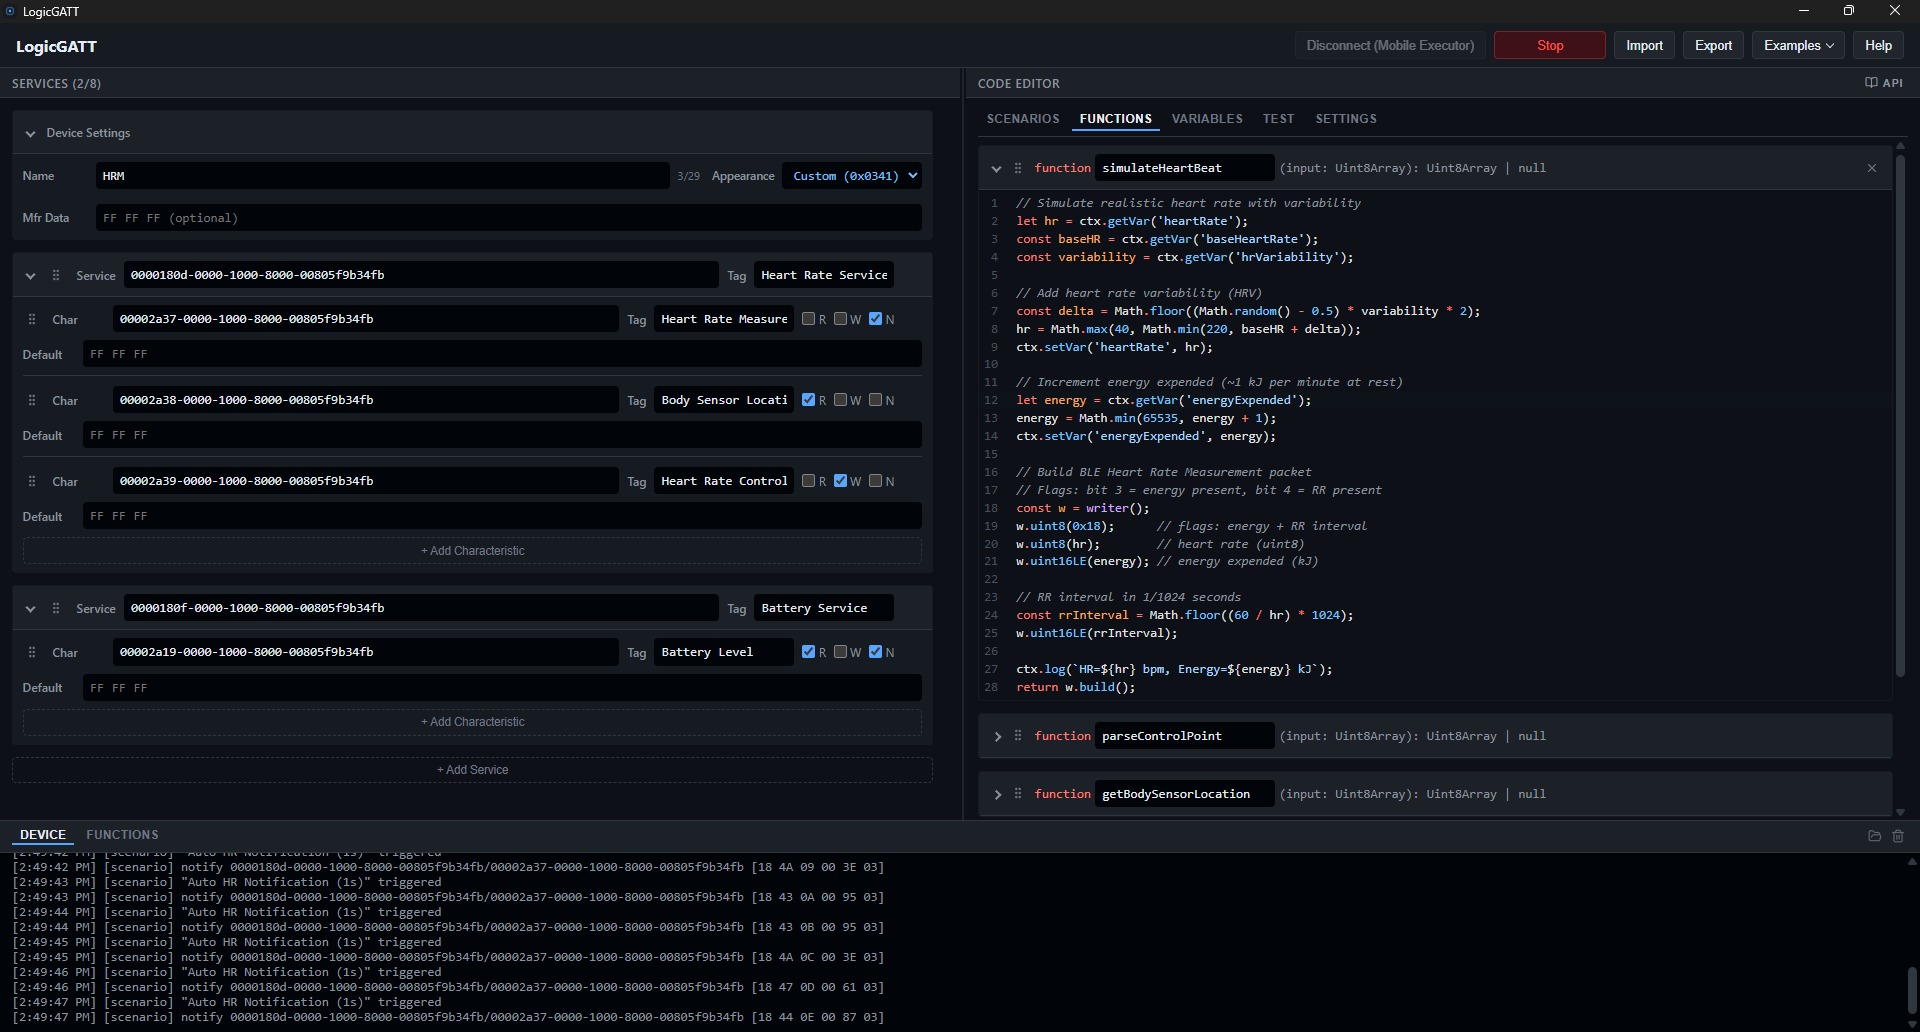
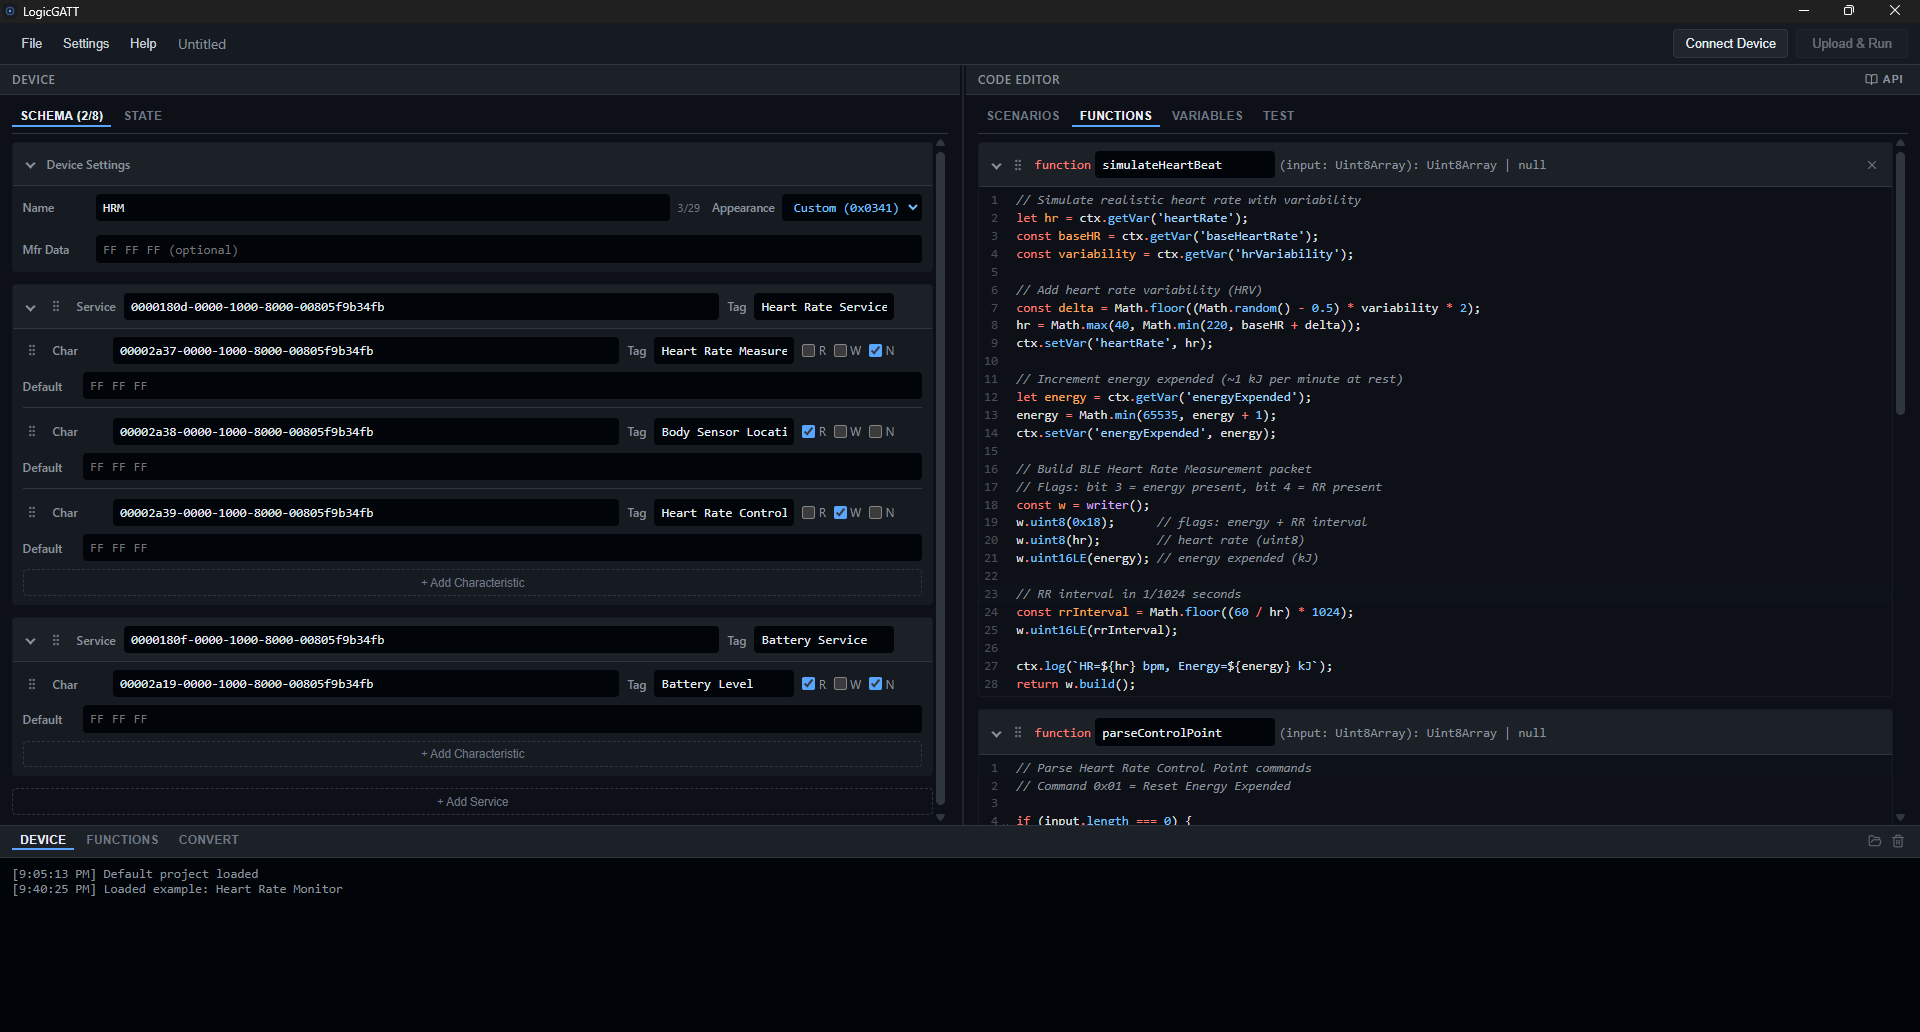
Correct the docs describing variables, resets and the current UI

diff --git a/logic-gatt-desktop-app/src/mainview/components/TopBar.tsx b/logic-gatt-desktop-app/src/mainview/components/TopBar.tsx
@@ -94,7 +94,8 @@ export function TopBar({ transport, project, files, logger, onUpload, examples =
                 <h3>Quick Start</h3>
                 <ol>
                   <li>
-                    <strong>Define Services</strong> : Add GATT services and characteristics in the left panel
+                    <strong>Define Services</strong> : Add GATT services and characteristics in{' '}
+                    <em>Device &rarr; Schema</em> on the left
                   </li>
                   <li>
                     <strong>Write Functions</strong> : Create reusable logic in the <em>Functions</em> tab
@@ -111,8 +112,14 @@ export function TopBar({ transport, project, files, logger, onUpload, examples =
               <section>
                 <h3>Panels</h3>
                 <dl>
-                  <dt>Services</dt>
+                  <dt>Device &rarr; Schema</dt>
                   <dd>Define BLE services and characteristics with UUIDs, properties (R/W/N), and default values</dd>
+
+                  <dt>Device &rarr; State</dt>
+                  <dd>
+                    The values the running session is working with. Edit one live, put it back with{' '}
+                    <em>Reset</em>, or promote it into the project with <em>Save as initial</em>
+                  </dd>
 
                   <dt>Scenarios</dt>
                   <dd>Event-driven pipelines: trigger on char writes/reads, timers, or startup, then execute steps</dd>
@@ -125,7 +132,8 @@ export function TopBar({ transport, project, files, logger, onUpload, examples =
 
                   <dt>Variables</dt>
                   <dd>
-                    Global state accessible via <code>ctx.getVar()</code> / <code>ctx.setVar()</code>
+                    Declare the variables a project has, and the value each one starts from. Reachable in
+                    functions via <code>ctx.getVar()</code> / <code>ctx.setVar()</code>
                   </dd>
 
                   <dt>Tests</dt>
@@ -159,8 +167,13 @@ export function TopBar({ transport, project, files, logger, onUpload, examples =
                     Use <code>console.log()</code> in functions : output appears in Functions tab of the terminal
                   </li>
                   <li>
-                    Variables hold live state: <code>ctx.setVar()</code> overwrites the value shown in the
-                    <em> Variables</em> tab, and Stop does not restore it — re-enter a value there to reset it
+                    A run never writes to the project. <code>ctx.setVar()</code> changes the session value in{' '}
+                    <em>Device &rarr; State</em>; the starting value in the <em>Variables</em> tab stays put.
+                    Reset one there, or all of them with <em>Reset all</em>
+                  </li>
+                  <li>
+                    <em>Device &rarr; State</em> also chooses when values go back to their project ones —
+                    on Upload &amp; Run, on disconnect, or never
                   </li>
                   <li>Use Tags on services/characteristics for easier identification in scenarios</li>
                   <li>

diff --git a/logic-gatt-desktop-app/docs/LOGIC_CONSTRUCTOR.md b/logic-gatt-desktop-app/docs/LOGIC_CONSTRUCTOR.md
@@ -60,8 +60,22 @@ The `type` fixes what `getVar` returns and what `setVar` accepts:
 | `string` | `string` | a string |
 
 `setVar` with a wrong type or out-of-range number logs an error and leaves the variable
-unchanged. Values persist across scenario runs and reset to `initialValue` when the schema is
-reloaded. Variables are the only way to share state between scenarios.
+unchanged. Variables are the only way to share state between scenarios.
+
+### Authored value vs. session value
+
+`initialValue` is document data: only the Variables tab writes it, and a run never does. A
+run works against a separate **session value** per variable, seeded from `initialValue`, so
+testing against a device leaves the project file alone.
+
+- **Variables tab** — declares each variable and the value it starts from.
+- **Device → State** — the session values a run is actually using. Each row can be edited
+  live, put back to the project value, or promoted into the project (*Save as initial*).
+
+Session values survive Stop, so a run's end state stays inspectable. When they go back to the
+authored ones is a setting, in the same panel: on Upload & Run, on disconnect, or neither.
+Editing a variable's definition does not disturb a value a run has already produced, except
+when its type changes — a value encoded for the old type cannot be kept.
 
 ---
 
@@ -90,7 +104,7 @@ return writer().uint8(0x00).uint8(cmd).build()
 | `ctx.getVar(name)` | `(string) => Uint8Array \| number \| string \| undefined` | Read a variable, typed per its declaration. Unknown name → warning, returns `undefined`. |
 | `ctx.setVar(name, value)` | `(string, value) => void` | Write a variable. Value must match the variable's type (see [Variables](#variables)); mismatch → error, no change. Unknown name → warning. |
 | `ctx.log(msg)` | `(string) => void` | Print a line to the Terminal panel. |
-| `ctx.runScenario(name)` | `(string) => void` | Queue another scenario to run after this pipeline finishes, with the pipeline's final buffer as its input. Unknown name → warning. |
+| `ctx.runScenario(name)` | `(string) => void` | Queue another scenario to run after this pipeline finishes, with the pipeline's final buffer as its input. Unknown name → warning. Chains stop after 8 levels (see [Execution model](#execution-model)). |
 
 ### `console`
 
@@ -211,14 +225,18 @@ the trigger's input buffer.
 
 ### Execution model
 
-1. On schema upload, variables reset to their initial values, `startup` scenarios run (after
-   a brief settle delay), and `timer` scenarios are scheduled.
+1. On schema upload, session values are reseeded from the authored ones (unless that reset is
+   switched off in *Device → State*), `startup` scenarios run after a brief settle delay, and
+   `timer` scenarios are scheduled.
 2. A `char-write`/`char-read` event runs every enabled scenario whose trigger matches the
    service+characteristic, in definition order. Each matching scenario gets its **own copy**
    of the original input buffer — matching scenarios do not chain into each other.
 3. Within a scenario, the buffer flows step → step. `ctx.runScenario(name)` from inside a
    function queues that scenario to run after the current pipeline, with the final buffer as
    its input.
+4. A queued scenario may queue another, up to **8 levels deep**. Past that the chain is
+   abandoned and a line is logged, so a scenario that re-triggers itself — directly or
+   through a cycle — stops instead of running forever.
 
 ### Examples
 
@@ -241,9 +259,10 @@ A test pairs a function with a fixed input and (optionally) an expected output:
 interface UserTest { id: string; name: string; functionId: string; inputHex: string; expectedHex: string }
 ```
 
-The Test panel runs the selected function against `inputHex`, using the project's current
-**variables** (so `getVar`/`setVar` work, and `setVar` updates the variable). It does not run
-a scenario pipeline, so `ctx.runScenario` has no effect.
+The Test panel runs the selected function against `inputHex`. Each test gets a throwaway
+session seeded from the authored `initialValue`s, so `getVar`/`setVar` behave normally but
+neither the project nor a live device session is touched, and every test starts from the same
+state. It does not run a scenario pipeline, so `ctx.runScenario` has no effect.
 
 - With `expectedHex` set → **pass** if the function's output equals it (hex compared byte for
   byte, whitespace-insensitive).
@@ -258,8 +277,18 @@ The panel shows per-test pass/fail and an aggregate (`passed/total`).
 Everything is serialized together:
 
 ```json
-{ "services": [ ... ], "functions": [ ... ], "variables": [ ... ], "scenarios": [ ... ], "tests": [ ... ] }
+{
+  "deviceSettings": { ... },
+  "services": [ ... ],
+  "functions": [ ... ],
+  "variables": [ ... ],
+  "tests": [ ... ],
+  "scenarios": [ ... ]
+}
 ```
+
+Only authored data is written: runtime `id`s are stripped, and session values stay out. A
+bare array of services is still accepted on open, as the old web app's export format.
 
 Built-in example projects are in `src/bun/presets/` (`default.json` demonstrates the function
 API; `heart-rate-monitor.json` uses timers, reads, and a control point).
